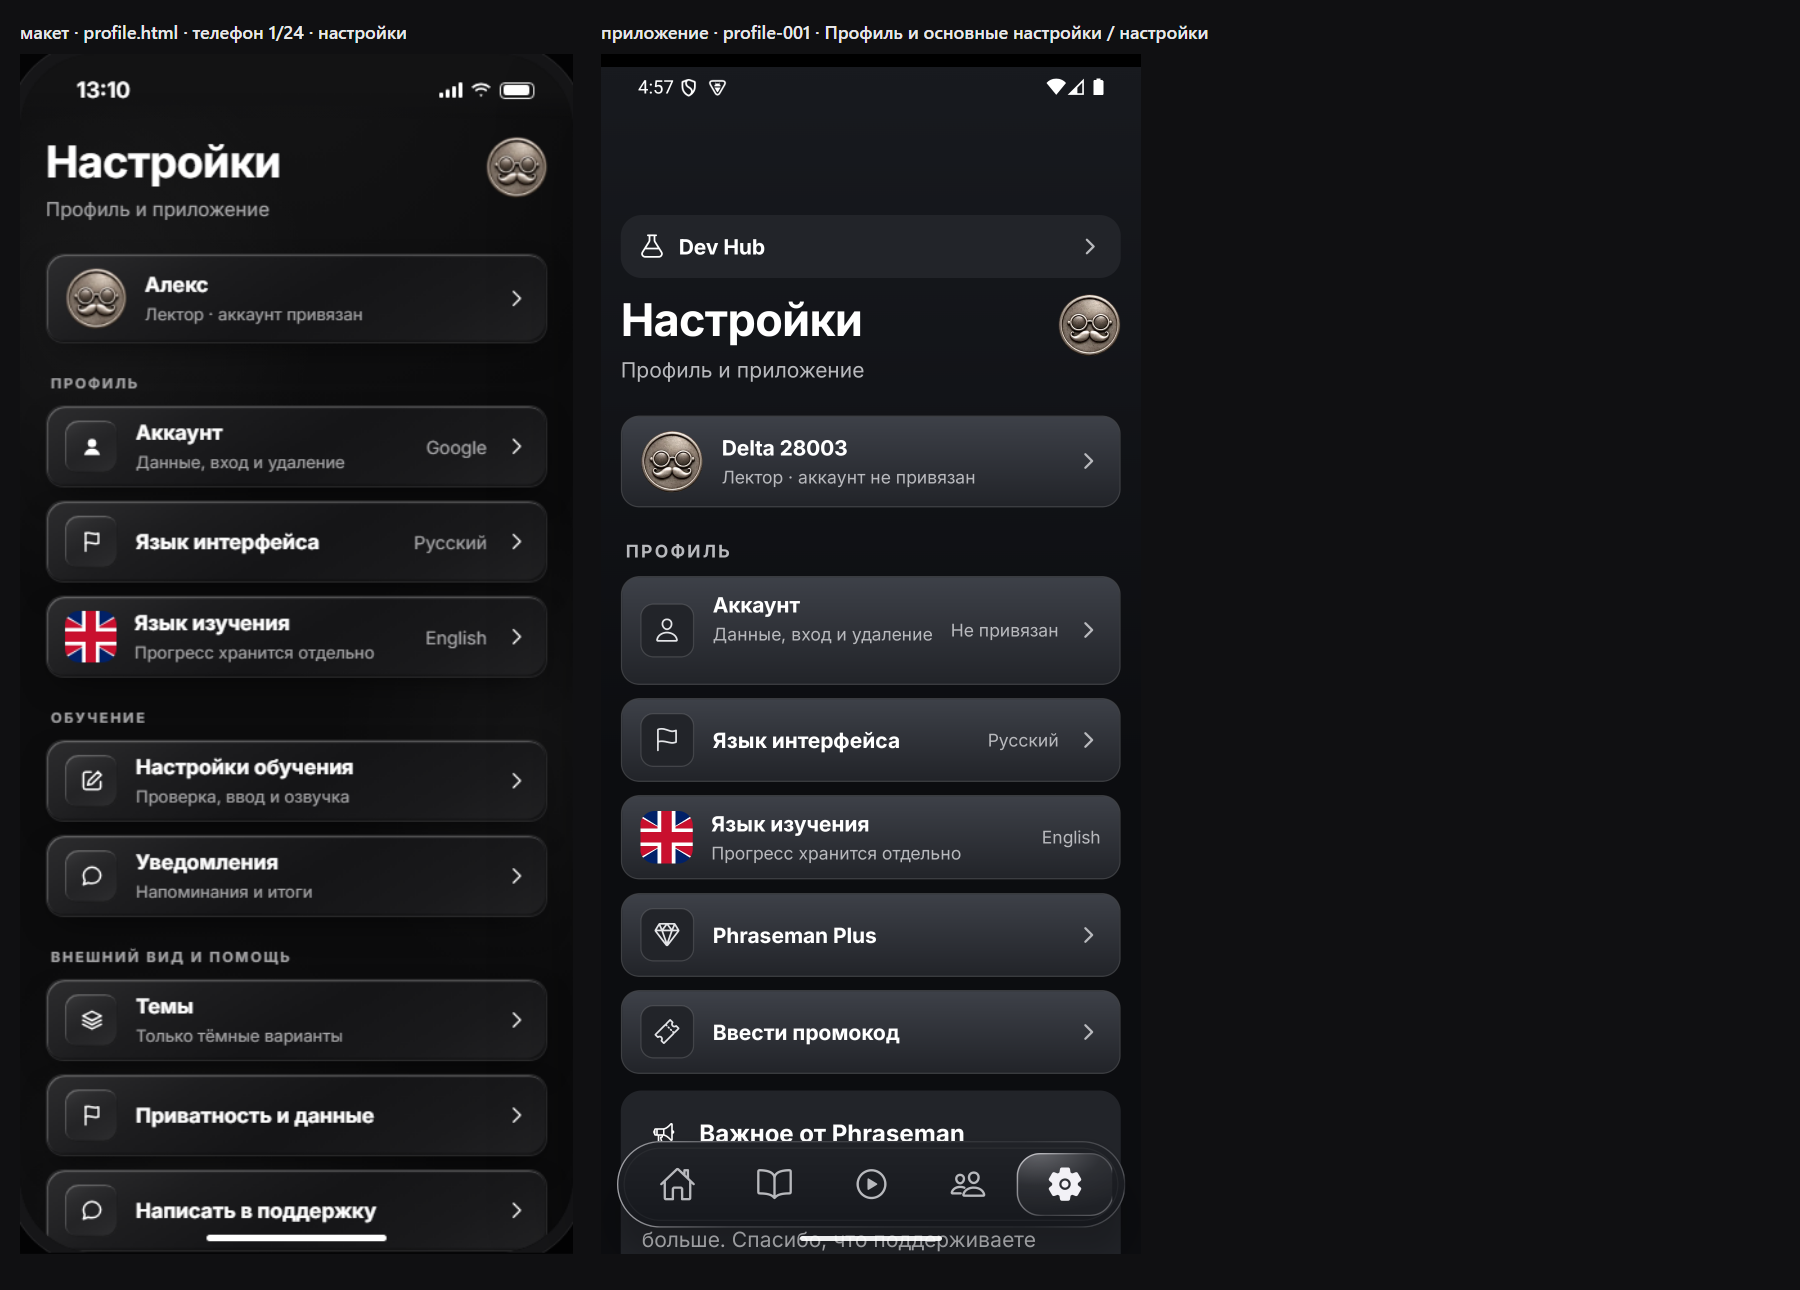
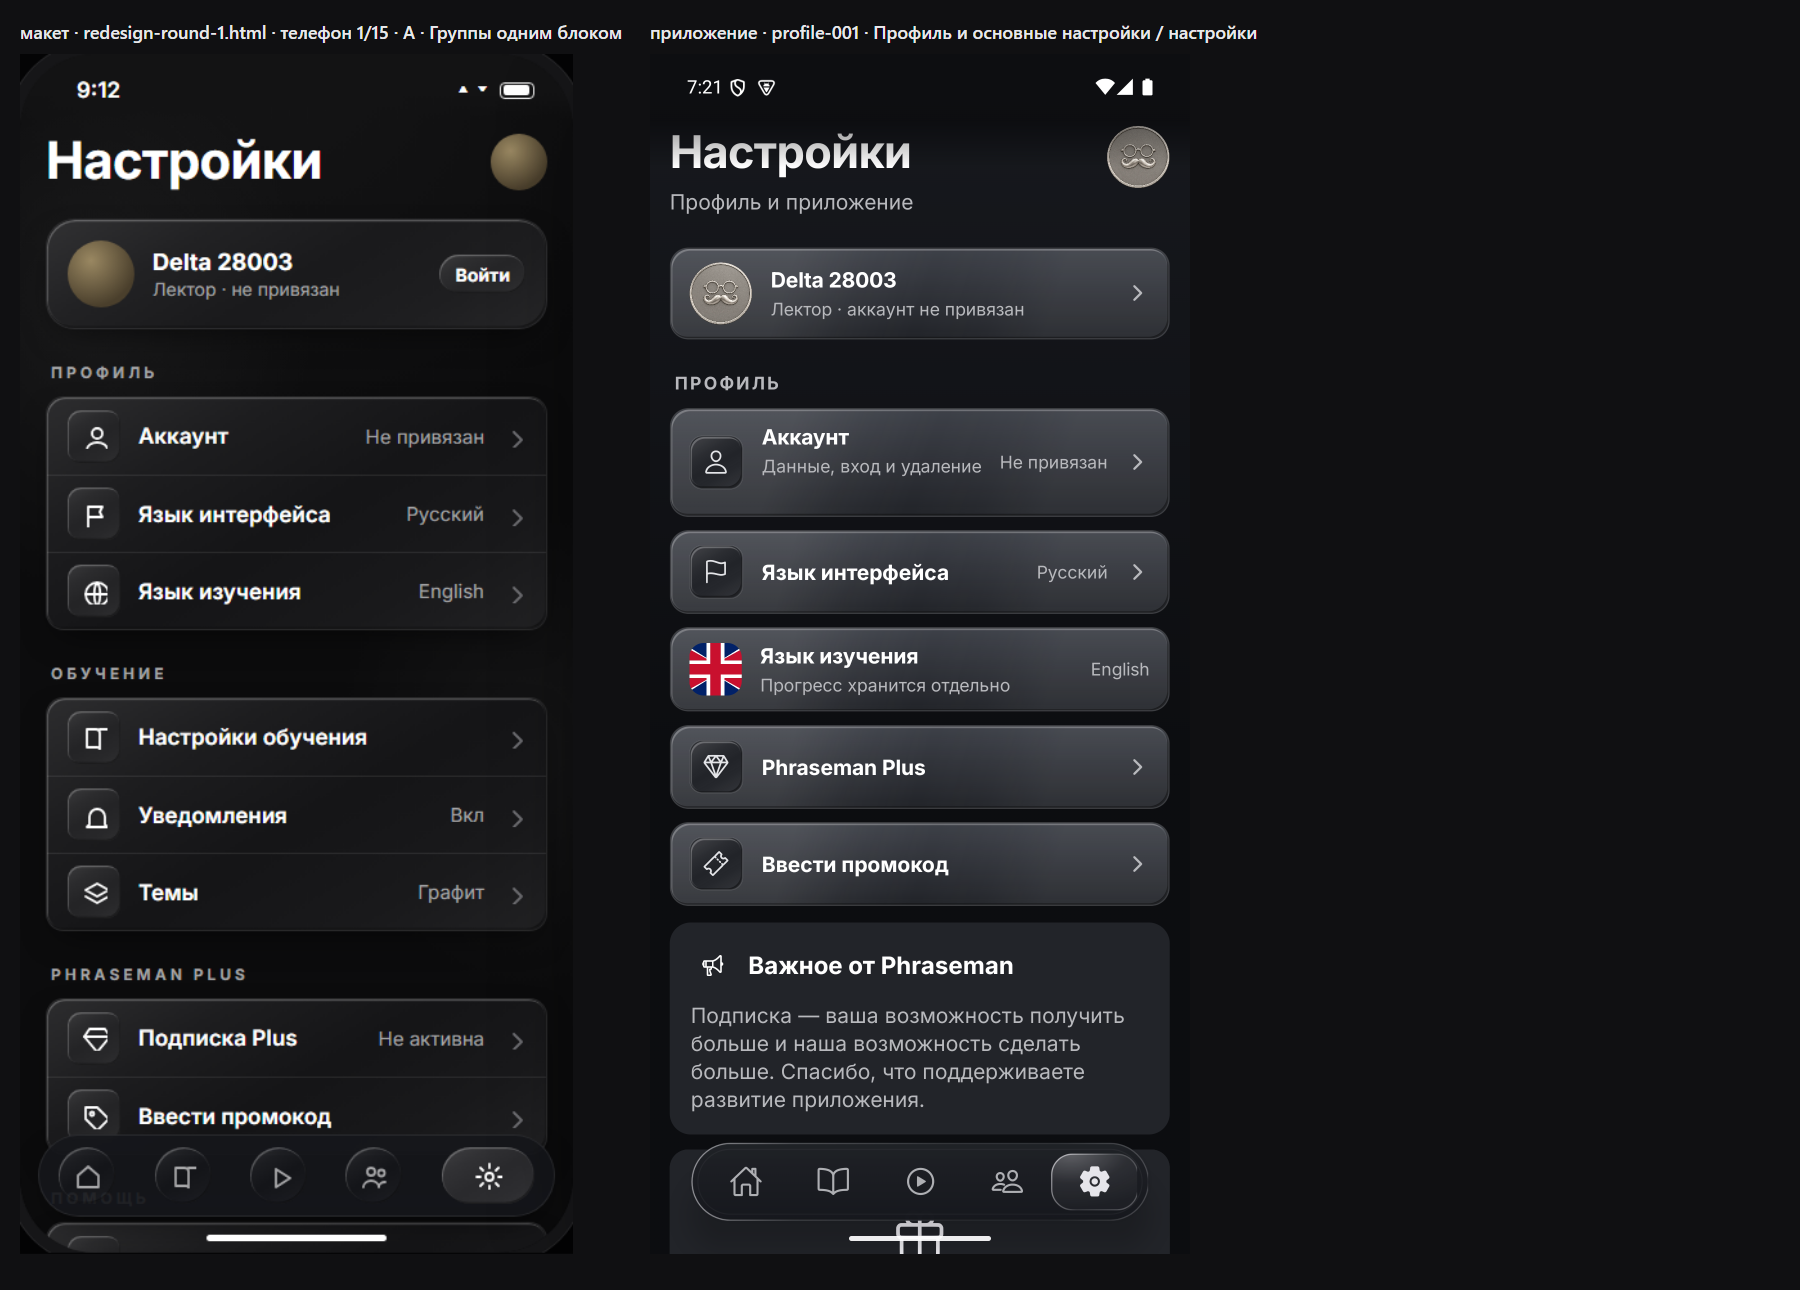
parity(profile-001): Настройки против round-1 A — отличия по структуре

diff --git a/docs/phraseman-2.0/evidence/parity/SVERKA_LOG.md b/docs/phraseman-2.0/evidence/parity/SVERKA_LOG.md
@@ -145,3 +145,13 @@ practice-002 «верный ответ» не снят: таймер блица 
 
 ### learn-003 · Поиск открыт (новый learn.html) — геометрия совпадает; остались: заливка карточек светлее (токен темы), замок контурный вместо залитого, монета серая вместо бронзовой. Данные: урок 3 закрыт у тестового аккаунта.
 ### learn-004 · Ничего не нашлось — ИСПРАВЛЕНО: убрана лишняя «Нашёл ошибку?» под советом при пустом поиске (app/(tabs)/lessons.tsx, ListFooterComponent). После этого совпадает с макетом; остаётся только «—» в пилюле монет сразу после холодного старта (🔴, уже передано).
+
+### profile-001 · Настройки — эталон redesign-round-1 A «Группы одним блоком» — НЕ СОВПАДАЕТ (нужна переделка экрана, не правка)
+1. Нет подзаголовка «Профиль и приложение» (в приложении есть).
+2. Карточка профиля: в макете справа кнопка «Войти» (не привязан), без стрелки; в приложении — стрелка.
+3. Группы: в макете пункты раздела собраны в ОДНУ карточку с разделителями (Профиль: Аккаунт / Язык интерфейса / Язык изучения); в приложении — отдельные карточки на каждый пункт.
+4. Строки — одна строка без подписей («Данные, вход и удаление», «Прогресс хранится отдельно» убраны); значение справа + стрелка, у «Язык изучения» тоже стрелка и значок-глобус вместо флага.
+5. Разделы макета: ПРОФИЛЬ → ОБУЧЕНИЕ (Настройки обучения, Уведомления «Вкл», Темы «Графит») → PHRASEMAN PLUS (Подписка Plus «Не активна», Ввести промокод) → ПОМОЩЬ. В приложении Plus и промокод стоят в «Профиле», плюс блок «Важное от Phraseman» (в макете нет).
+6. Dev Hub и версия — внизу мелко (в приложении Dev Hub сверху, отладка).
+7. Аватар в шапке: в макете бронзовый круг без рисунка; в приложении — монета-аватар.
+Файлы: app/(tabs)/settings.tsx, components/settings/SettingsGlassRows.tsx — передаю дизайн-сессии (перестройка структуры экрана).
